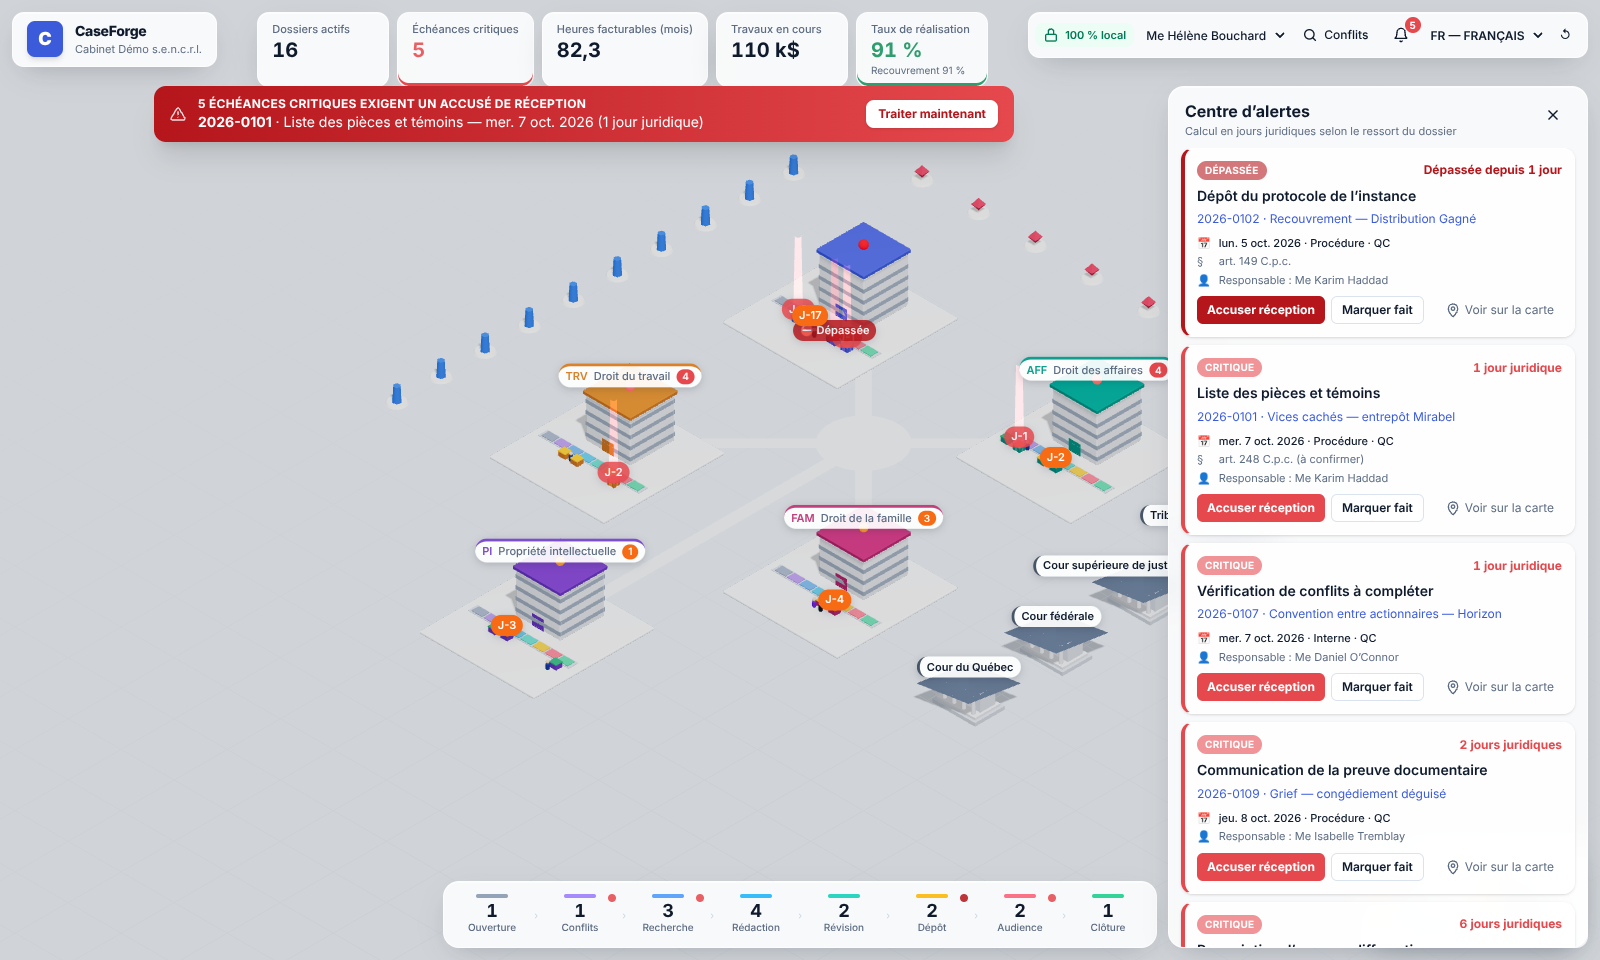
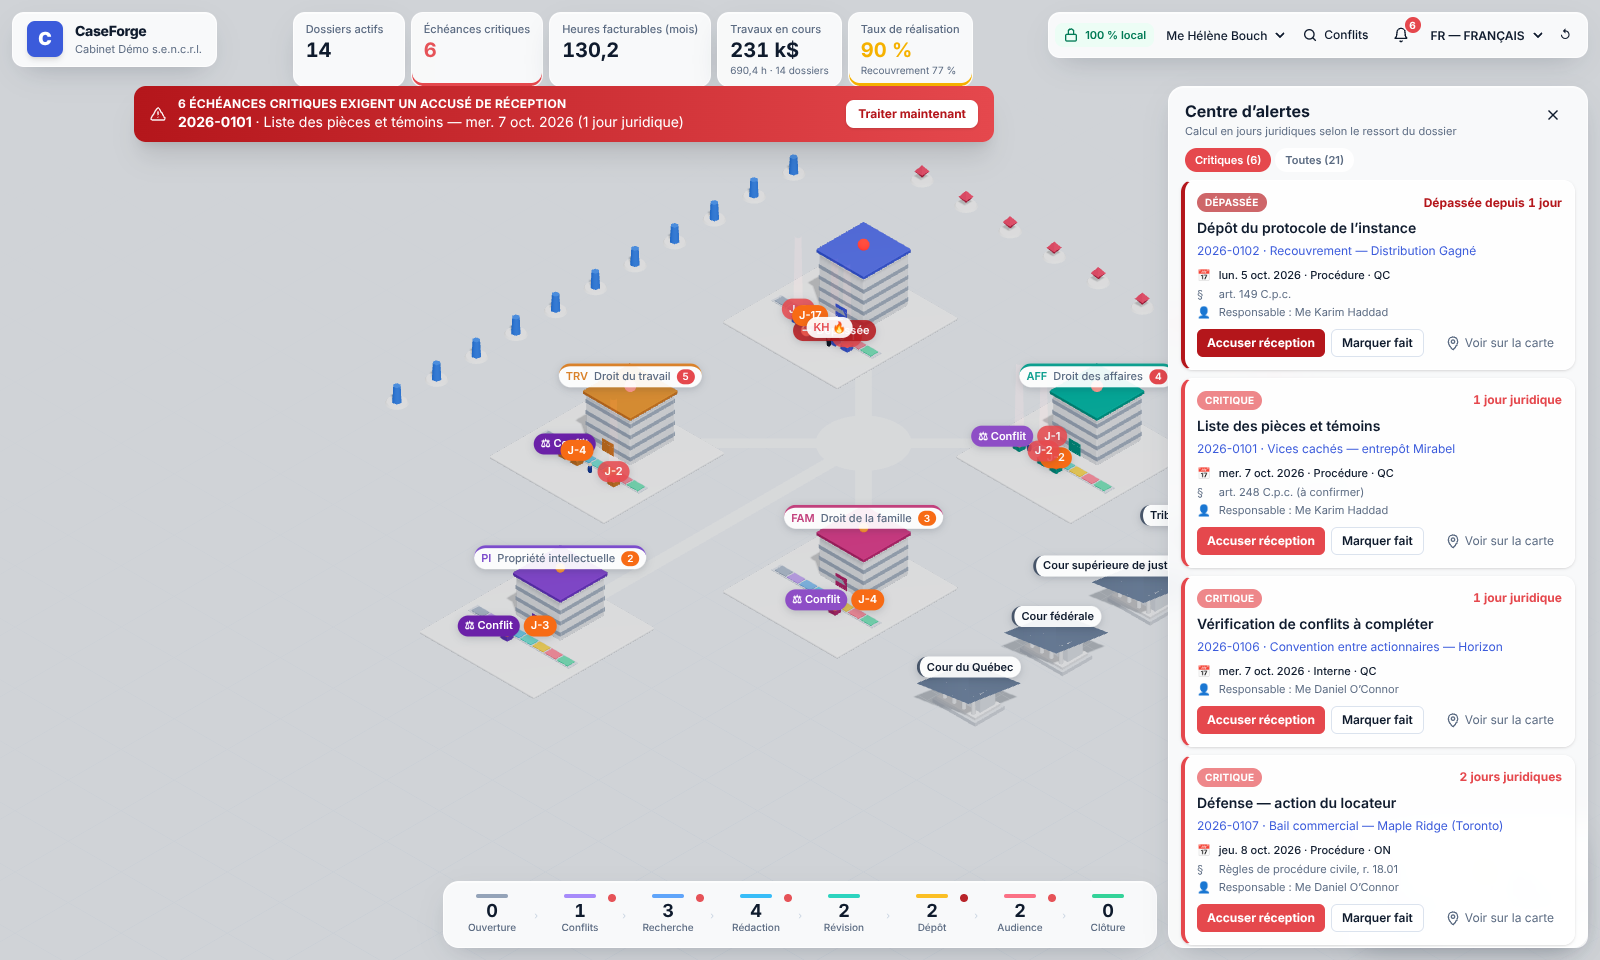
README et captures : phase 2 (temps, conflits, pipeline, démo, UX)
Claude-Session: https://claude.ai/code/session_019NzmQLGs6iCsFEhmFbzUyy

diff --git a/README.md b/README.md
@@ -14,8 +14,8 @@
 |---|---|---|
 | Délai de prescription ou de procédure manqué (1re cause de réclamations en responsabilité professionnelle) | Échéances calculées en **jours juridiques** propres au ressort, avec une colonne lumineuse sur la carte, une bannière impossible à fermer, un **accusé de réception nominatif journalisé** et une notification système | Évite des sinistres à 6 chiffres et protège la prime d'assurance |
 | « Où en est ce dossier ? » | Chaque pôle a son quai de pipeline à 8 étapes (Ouverture → Clôture), et les dossiers glissent d'une étape à l'autre | Vue instantanée, sans réunion |
-| Temps non saisi (WIP perdu) | Chronomètre en un clic et saisie rapide par tranches de 0,1 h | Récupère des heures facturables |
-| Conflits d'intérêts | Recherche floue (Ctrl+K) sur clients, parties adverses et noms antérieurs, qui ignore les accents et les formes juridiques | Vérification en quelques secondes au lieu de plusieurs minutes |
+| Temps non saisi (WIP perdu) | Chronomètre en un clic, saisie manuelle en 5 secondes, arrondi automatique à 0,1 h, taux figé, statuts facturé ou radié, export CSV vers le logiciel de facturation | Récupère des heures facturables et donne une vue claire du WIP |
+| Conflits d'intérêts | Recherche floue (Ctrl+K) sur clients, parties adverses et noms antérieurs, **enregistrée automatiquement** avec statut et auteur ; dossiers concernés signalés sur la carte | Vérification en quelques secondes et preuve de diligence pour le Barreau |
 | Rentabilité opaque | Marge, budget consommé, WIP, facturé et encaissé par dossier et par pôle, en temps réel | Décisions de tarification éclairées |
 | Épuisement professionnel | Anneau de charge sous chaque collaborateur, indice de pression (utilisation et échéances critiques) | Redistribution avant la crise |
 
@@ -27,7 +27,7 @@ npm run rebuild:native   # recompile better-sqlite3 pour l'ABI d'Electron
 npm run dev              # application de bureau (Electron + SQLite)
 
 npm run dev:web          # interface seule dans le navigateur (mode démo, IndexedDB)
-npm test                 # tests unitaires (calendriers, délais, alertes, conflits, SQLite)
+npm test                 # 53 tests : calendriers, délais, alertes, temps, conflits, démo, SQLite
 npm run typecheck
 npm run package          # installateur Windows / macOS / Linux (electron-builder)
 ```
@@ -68,7 +68,8 @@ npm run package          # installateur Windows / macOS / Linux (electron-builde
   - aucune permission accordée ;
   - navigation et `window.open` interdits ;
   - polices empaquetées localement (`@fontsource`), aucune ressource CDN (pas d'`Environment` drei ni de `Text`/troika, qui téléchargent des fichiers).
-- **Isolation.** `contextIsolation`, `sandbox` et `nodeIntegration: false`. Le renderer n'a accès qu'aux 6 opérations exposées par le preload, et chaque entrée est validée côté main.
+- **Isolation.** `contextIsolation`, `sandbox` et `nodeIntegration: false`. Le renderer n'a accès qu'aux 10 opérations exposées par le preload (`src/shared/api.ts`), et chaque entrée est validée côté main. Les règles métier (arrondi, transitions de statut, initiales) sont partagées entre SQLite et le mode démo pour ne jamais diverger.
+- **Export de fichiers.** Le seul fichier que l'application écrit hors de sa base est celui que l'utilisateur choisit dans la boîte de dialogue native (Electron), ou un téléchargement local dans le navigateur.
 - **Domaine pur et testable.** Toute la logique métier (`src/shared/domain`) est en TypeScript sans dépendance. Elle tourne à l'identique dans Electron, dans le navigateur et sous Vitest.
 - **Robustesse.**
   - Journal WAL, `foreign_keys` et contraintes `CHECK` sur toutes les énumérations.
@@ -79,7 +80,7 @@ npm run package          # installateur Windows / macOS / Linux (electron-builde
 
 ## 2. Schéma de la base locale
 
-Défini dans `src/main/db/migrations.ts`.
+Défini dans `src/main/db/migrations.ts` (v1 : schéma initial ; v2 : statuts des vérifications de conflits et index d'audit).
 
 | Table | Rôle | Colonnes clés |
 |---|---|---|
@@ -94,8 +95,8 @@ Défini dans `src/main/db/migrations.ts`.
 | `time_entries` | Saisie de temps | `minutes`, `rate_cents` (figé à la saisie), `billable`, `status` (wip/facture/radie) |
 | `invoices` | Factures | `standard_value_cents`, `amount_cents`, `paid_cents` (réalisation et recouvrement) |
 | `documents` | Pièces (références vers des **fichiers locaux** seulement) | `category`, `exhibit` (P-1, D-3…), `file_path` |
-| `conflict_checks` | Trace des vérifications de conflits (preuve de diligence ; table prête, journalisation à brancher) | `query`, `performed_by`, `results_json` |
-| `audit_log` | Journal (accusés de réception, changements d'étape) | `actor`, `action`, `entity`, `entity_id`, `details_json` |
+| `conflict_checks` | Trace des vérifications de conflits (preuve de diligence), écrite automatiquement | `query`, `performed_by`, `performed_at`, `results_json` (correspondances figées), `status` (en_cours/clair/potentiel/confirme), `matter_id`, `updated_at/by` — **v2** |
+| `audit_log` | Journal : accusés de réception, échéances faites, changements d'étape, statuts de temps, vérifications de conflits | `actor` (initiales), `action`, `entity`, `entity_id`, `details_json` (de → vers) |
 
 ## 3. Structure du projet
 
@@ -111,7 +112,9 @@ src/
 │       ├── deadlineRules.ts   # catalogue de délais + moteur de calcul expliqué
 │       ├── alerts.ts          # niveaux d'alerte, accusés de réception
 │       ├── metrics.ts         # KPI, charge, rentabilité
-│       └── conflicts.ts       # recherche floue de conflits
+│       ├── time.ts            # arrondi 0,1 h, durées, statuts, WIP, export CSV
+│       ├── validation.ts      # initiales nominatives
+│       └── conflicts.ts       # recherche floue, statuts, dossiers signalés
 ├── main/                      # processus principal Electron
 │   ├── index.ts               # fenêtre, cycle de vie, instance unique
 │   ├── security.ts            # blocage réseau, CSP, permissions
@@ -127,7 +130,7 @@ src/
         ├── store/             # Zustand + valeurs dérivées mémoïsées
         ├── i18n/              # fr.ts (défaut), en.ts — typés
         ├── scene/             # carte 3D : layout, bâtiments, dossiers, collaborateurs, tribunaux, liens, caméra
-        └── ui/                # barre KPI, bannière, centre d'alertes, panneau de détail, pipeline, conflits
+        └── ui/                # barre KPI, bannière, centre d'alertes, panneau de détail, temps (panneau + tiroir WIP), pipeline, conflits
 ```
 
 ## 4. Le premier écran
@@ -141,9 +144,9 @@ src/
 - **Barre d'indicateurs** : dossiers actifs, échéances critiques, heures facturables du mois, travaux en cours (WIP), taux de réalisation et de recouvrement.
 - **Barre de pipeline** : nombre de dossiers par étape, avec filtrage sur la carte.
 
-| Centre d'alertes | Dossier | Conflits (Ctrl+K) |
-|---|---|---|
-| ![](docs/captures/centre-alertes.png) | ![](docs/captures/dossier.png) | ![](docs/captures/conflits.png) |
+| Centre d'alertes | Dossier (mode focus) | Conflits (Ctrl+K) | Temps et WIP |
+|---|---|---|---|
+| ![](docs/captures/centre-alertes.png) | ![](docs/captures/dossier.png) | ![](docs/captures/conflits.png) | ![](docs/captures/temps-wip.png) |
 
 ## 5. Système d'alertes d'échéances
 
@@ -163,9 +166,50 @@ src/
    - gyrophare du bâtiment ;
    - point rouge sur l'étape du pipeline ;
    - KPI pulsant.
-4. **Bannière persistante**, qui ne se ferme pas tant qu'une échéance critique ou dépassée n'a pas reçu d'**accusé de réception nominatif** (initiales). L'accusé est journalisé dans `audit_log`.
+4. **Bannière persistante**, sans bouton de fermeture : elle reste tant qu'une échéance critique ou dépassée n'a pas reçu d'**accusé de réception nominatif** (date et initiales). « Marquer fait » exige lui aussi des initiales : aucune alerte critique ne peut disparaître sans auteur identifié. Tout est journalisé dans `audit_log`. Le KPI « Échéances critiques » et la bannière ouvrent le centre d'alertes filtré sur les critiques.
 5. **Notification du système d’exploitation**, même si la fenêtre est réduite : vérification toutes les 15 minutes, une seule notification par échéance et par jour.
 6. **Moteur de délais expliqué** (`deadlineRules.ts`). Chaque calcul retourne son raisonnement : jour du point de départ exclu, report pour cause de jour non juridique, fondement légal. Par prudence, CaseForge retient la **date brute**, avant report, comme échéance d'alerte.
+
+## 6. Phase 2 — valeur commerciale
+
+### Time-tracking
+- **Chronomètre** en un clic dans le panneau du dossier, avec une description facultative.
+- **Saisie manuelle** : description et durée (`0,5`, `1:30`, `1h30`, `45m`), avec un aperçu « → 0,4 h · 210,00 $ » avant l'ajout.
+- **Arrondi automatique au dixième d'heure supérieur** (tranches de 6 minutes, minimum 0,1 h). Il est appliqué par la couche de données, quelle que soit l'interface qui saisit.
+- **Taux figé à la saisie.** Le taux du collaborateur est copié dans l'entrée ; une hausse ultérieure ne modifie pas les entrées existantes.
+- **Statuts** : non facturé (WIP) → facturé ou radié, avec retour possible au WIP pour corriger. Chaque changement est journalisé.
+- **KPI « Travaux en cours »** en dollars et en heures, avec le nombre de dossiers concernés. Un clic ouvre le **tiroir Temps et WIP** :
+  - filtres par statut et « Mes entrées » ;
+  - regroupement par dossier ;
+  - « Tout facturer » par dossier.
+- **Export CSV** de la sélection ou d'un dossier, pour l'importation dans un logiciel de facturation :
+  - UTF-8 avec BOM (lisible par Excel), séparateur virgule, décimales avec point ;
+  - colonnes : date, dossier, client, collaborateur, minutes, heures, taux, montant, statut, description, id ;
+  - neutralisation des formules (`=`, `+`, `-`, `@`) contre l'injection CSV.
+
+### Conflits
+- Chaque recherche Ctrl+K est **enregistrée automatiquement** dans `conflict_checks` après une pause de frappe, une seule fois par requête distincte.
+- La recherche est **refaite par la couche de données** au moment de l'enregistrement : la trace fait foi, indépendamment de l'interface.
+- **Statuts** : En cours, Clair, Conflit potentiel, Conflit confirmé. Le statut initial est automatique (« Clair » sans correspondance, « Conflit potentiel » sinon), puis modifiable.
+- **Dossier visé** facultatif (ouverture d'un nouveau mandat).
+- **Historique** dans la fenêtre Ctrl+K et dans le panneau de chaque dossier concerné.
+- **Signalement visuel** : un dossier visé par une vérification potentielle ou confirmée, ou dans lequel apparaît une partie correspondante, porte un anneau violet et une pastille « ⚖ Conflit » sur la carte. Son panneau affiche aussi un encadré d'alerte.
+
+### Pipeline actionnable
+- **Changer d'étape** de trois façons : boutons ‹ ›, clic sur l'étape dans le stepper, ou **glisser-déposer** de la poignée du dossier vers une étape de la barre de pipeline.
+- **Journalisation** de chaque changement dans `audit_log` : qui (initiales de la session), quand, et de quelle étape vers quelle étape. Le panneau du dossier affiche cet **historique**.
+- **Filtre rapide** par clic sur une étape, avec une pastille « Filtre : étape ✕ ».
+
+### Démo
+- **14 dossiers** : 9 au Québec, 3 en Ontario et 2 devant les Cours fédérales.
+- **6 échéances critiques ou dépassées** dans les deux prochains jours juridiques.
+- **4 vérifications de conflits**, une par statut.
+- **Charges contrastées** : surcharge, élevée, saine et faible.
+
+### UX
+- **Mode focus** : quand un dossier est sélectionné, l'éclairage et le fond s'assombrissent en douceur, les autres dossiers passent au second plan et un projecteur éclaire le dossier choisi.
+- **Centre d'alertes filtré** : le KPI critique et la bannière l'ouvrent sur les seules échéances critiques.
+- **Erreurs** : elles s'effacent d'elles-mêmes après 5 secondes.
 
 ## Droit modélisé et points à valider
 
